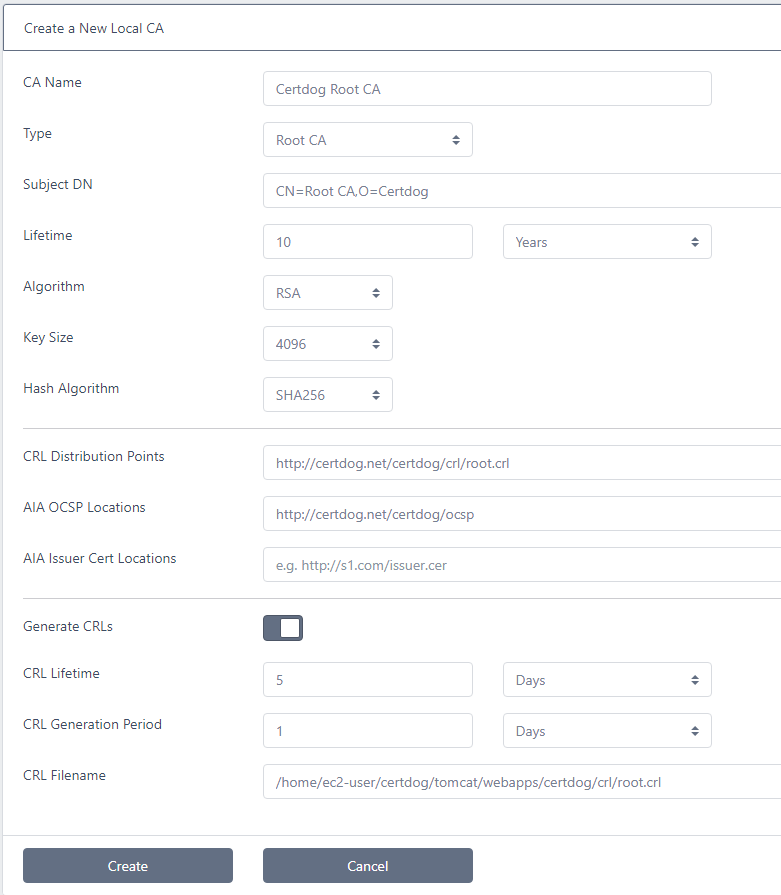
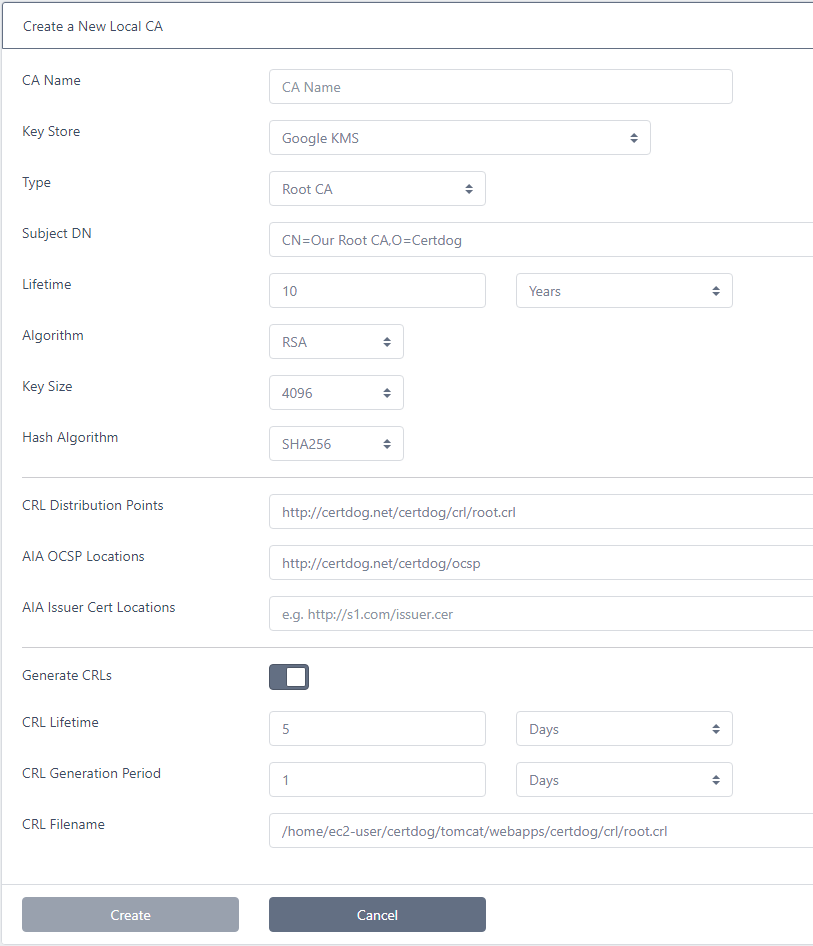
Added Key Stores Docs

diff --git a/certdog/keystores.md b/certdog/keystores.md
@@ -1,0 +1,241 @@
+---
+layout: default
+title: Key Stores
+parent: Certdog
+nav_order: 5
+---
+# Key Stores
+
+
+
+A Local CA makes use of a Key Store. This is where the CA keys will be generated and stored  
+
+A key store must be available before a Local CA can be created - as it relies on this for the key generation  
+
+Key Stores can be one of the following types:
+
+* Software
+  * The CA keys will be secured using software based encryption and stored in the database  
+* PKCS#11
+  * A HSM (Hardware Security Module) that supports the PKCS#11 interface may be used to generate and store the CA keys. HSMs supported include
+    * Thales Luna and DPoD (Data Protection on Demand)
+    * nCipher
+    * Utimaco
+    * AWS Cloud HSM
+* Azure Key Vault
+  * A Key Vault in Azure can be used. Note: Certdog enforces HSM protection for keys and this is only supported on the Premium pricing tier
+* Google KMS
+  * A key ring in Google Cloud may be used for key storage. Again, certdog enforces HSM protection for these keys
+
+  
+
+## Obtaining Credentials and Settings
+
+Before you create a Key Store the required credentials must be obtained. These are dependant on what type of key store is being used
+<br><br>
+### Software
+
+Only a password is required for software key stores. This password is used to protect any keys generated by the CA. The password itself will also be encrypted before being stored
+<br><br>
+### PKCS#11
+
+The PKCS#11 interface makes use of a local library which interfaces to the HSM  
+
+This library is provided by the HSM vendor and the setup of this (and any other required configuration) is vendor specific  
+
+Note that this setup must be performed on the certdog server itself - not on the client accessing the certdog server
+
+Once setup the following pieces of information are required:
+
+* The PKCS#11 Library
+
+  * This is the library providing the PKCS#11 interface. The full path is required. A typical example for an nCipher HSM's library is:
+
+    ``C:\Program Files (x86)\nCipher\nfast\toolkits\pkcs11\cknfast-64.dll``
+
+    ``/opt/nfast/toolkits/pkcs11/64/libcknfast.so``
+
+* The slot
+
+  * A PKCS#11 device can host many slots which may refer to partitions (on Luna HSMs) or cardsets (on nCipher HSMs). Each slot may use a different password. This will all be configured during the HSM setup so you just need to be sure your password matches with the slot you will reference
+
+* Password
+
+  * This is the password used to authenticate to the HSM. It may be an operator cardset passphrase (in the case of nCipher) or a partition passphrase (in the case of Luna) or a combination of username and password as required for the AWS Cloud HSM (which requires the password in this format: ``username:password``)
+
+* Use Module Protection
+
+  * Some HSMs allow access without requiring a password. Access to the HSM should then be secured using other mechanisms (e.g. network layer security)
+<br><br>
+### Google KMS
+
+To use a key ring in Google Cloud the following are required. These can be obtained/configured from your Google Cloud account:
+
+* **Project**
+  * This is the project ID as displayed in the Home dashboard:
+
+<img src=".\images\google_project.png" alt="image-20210717085402338" style="zoom:67%;" />
+
+
+
+* **Key Ring Location**
+
+  You must have created a key ring from the **Security** | **Key management** section in Google Cloud
+
+  When created the location will be displayed (e.g. *us-west4*, *europe-west2* etc.)
+
+  Note that it is recommended that a dedicated key ring be assigned to Certdog as it will be creating and deleting keys within this key ring
+
+
+* **Key Ring Name**
+
+  The name you assigned to the key ring e.g. certdog
+
+* **Key Ring Credentials**
+
+  This is the JSON credential string associated with a service account that has permissions to access the key ring
+
+  A service account can be created from the **IAM & Admin** | **Service Accounts** section. It is recommended that a dedicated service account is created for certdog
+
+  The account must have the following roles:
+
+  * Cloud KMS Admin
+  * Cloud KMS CryptoKey Signer
+  * Cloud KMS CryptoKey Public Key Viewer
+
+  To obtain the JSON credential, select the **Keys** section for the service account and select **Add Key**, choosing **JSON** as the Key type. Download the produced JSON file - it is the contents of this file that must be pasted into the **Key Ring Credentials** section
+  <br><br>
+### Azure Key Vault
+
+To use a Key Vault in Azure the following are required. These can be obtained/configured from the Azure Portal:
+
+* **Key Vault Name**
+
+  This is the Vault URL as displayed on the vault's overview page, it is not the display name. I.e. in the example below the Key Vault Name required to be entered is: https://certdog.vault.azure.net
+
+<img src=".\images\keyvault_name.png" alt="image-20210717092340973" style="zoom:80%;" />
+
+* **Key Vault Client ID**
+
+  This is also referred to as the **appId**. See the steps below on how to obtain this value
+
+* **Key Vault Tenant ID**
+
+  This is also referred to as the **Directory ID** (see the green box in the screen shot above)
+
+* **Password**
+
+  Also referred to as the **client secret**
+
+
+
+To obtain these values, we need to register an application that will then be authorised to use the key vault  
+
+To do this, perform the following steps:
+
+1. If not done so already, create a **Key Vault** in the *Azure Portal*
+2. From the *Portal*, navigate to **Azure Active Directory** and select **App Registrations** from the left hand menu 
+3. From the top menu click **New registration** 
+   1. Provide a **name** for the application (e.g. certdog)
+   2. Select the *supported account types*
+   3. For the *Redirect URI (optional)* setting, choose **Web** and provide a **URL**. The URL does not need to be a real URL but must be formatted as a URL. For example, it could be: https://certdog.myorg.com 
+4. Next, open **Azure Cloud Shell** either by clicking the shell icon from the *Portal*:
+
+![image-20210717092702011](C:\Users\darre\Documents\_mystuff\development\_Krestfield Products\docs\certdog\images\azure_shell.png)
+
+		or by navigating to https://shell.azure.com/
+
+5. At the prompt type the following to create a service principal called certdog (though you can name this whatever you want):
+
+```json
+az ad sp create-for-rbac -n certdog --skip-assignment
+The output includes credentials that you must protect. Be sure that you do not include these credentials in your code or check the credentials intoyour source control. For more information, see https://aka.ms/azadsp-cli
+'name' property in the output is deprecated and will be removed in the future. Use 'appId' instead. 
+{
+	"appId": "fd94f971-ebd9-4a32-a56e-97427655429e", 
+	"displayName": "certdog",
+    "name" : "fd94f971-ebd9-4a32-a56e-97427655429e",
+	"password": "nScc7-6T.gOI7.ugHawFRRoUbwUA_agrC-",
+    "tenant": "36524c35-390b-4343-390b-36524c35707c"
+}
+```
+
+6. Note the following items: 
+   * appId
+   
+     This is your **Key Vault Client ID**
+   
+   * password
+   
+     This is the **password** 
+   
+   * tenant
+   
+     This should be the same value as displayed for Directory ID on the key vaults overview page and is the **Key Vault Tenant ID**
+   
+     
+
+7. We must set the permissions on the key vault for this application. To do this, type the following at the shell:
+
+```shell
+export AZURE_CLIENT_ID=[value for appId returned above] 
+export AZURE_CLIENT_SECRET=[value returned for password above]
+export AZURE_TENANT_ID=[value returned for tenant above]
+
+az keyvault set-policy --name [Key Vault Name] --spn $AZURE_CLIENT_ID --key-permissions delete get list create sign verify encrypt decrypt wrapKey unwrapKey –-certificate-permissions get list
+```
+
+The [Key Vault Name] in this instance is not the full URI, but just the name. For example, if you had created a key vault called certdog. Its URI would be: https://certdog.vault.azure.net/ but the name required here would just be: *certdog*
+
+For example:
+
+````shell
+export AZURE_CLIENT_ID="fd94f971-ebd9-4a32-a56e-97427655429e"
+export AZURE_CLIENT_SECRET="nScc7-6T.gOI7.ugHawFRRoUbwUA_agrC-"
+export AZURE_TENANT_ID="36524c35-390b-4343-390b-36524c35707c"
+
+az keyvault set-policy --name certdog --spn $AZURE_CLIENT_ID --key-permissions delete get list create sign verify encrypt decrypt wrapKey unwrapKey --certificate-permissions get list
+````
+
+
+
+You would now have created an account that can be configured in certdog to access your key vault. 
+
+<br>
+
+## Creating a Key Store
+
+
+
+1. From the certdog application, login as an **Administrator**
+2. From the menu select, **Local CA** | **Key Stores**
+3. Click **Add New Key Store**
+4. Enter a **Name** for the Key Store. This can be anything you like and is used to reference it later  
+5. Select the **Key Store Type** from the drop down
+    <br><br>
+### Software
+<img src=".\images\keystores_software.png" alt="image-20210717115311825" style="zoom: 80%;" />
+
+Enter a **password**, retype and click **Create**  
+
+Note that this password will be used to protect any keys created by Local CAs that use this key store. Ensure it meets your password security requirements  
+<br><br>
+### PKCS#11
+
+<img src=".\images\keystores_pkcs11.png" alt="image-20210717115539161" style="zoom: 80%;" />
+
+Enter the **Password**, **PKCS#11 Library**, **HSM Model** and the **Slot** as per the details outlined above and click **Create**
+<br><br>
+
+### Google KMS
+
+<img src=".\images\keystores_google.png" alt="image-20210717115848253" style="zoom:80%;" />
+
+Enter the **Project**, **Key Ring Location**, **Key Ring Name** as obtained above. For the **Key Ring Credentials**, open the JSON file that was downloaded and copy its contents into the box. Click **Create**
+<br><br>
+
+### Azure Key Vault
+
+<img src=".\images\keystores_keyvault.png" alt="image-20210717120236416" style="zoom:80%;" />
+
+Enter the **Password**, **Key Vault Name**, **Key Vault Client ID** and **Key Vault Tenant ID** as obtained from above. Click **Create**

diff --git a/certdog/create_local_certificate_issuer.md b/certdog/create_local_certificate_issuer.md
@@ -17,28 +17,21 @@ A Certificate Issuer combines a CA (Certificate Authority) and Certificate Profi
 ### 1. Create a Local CA Configuration  
    Select **Local CA** > **Configuration** from the menu and click **Add New CA**
 
-<img src=".\images\new-local-ca.png" alt="image-20210620112307746" style="zoom: 67%;" />
+<img src=".\images\new-local-ca.png" alt="image-20210717121009648" style="zoom:80%;" />
 
 Complete the following details:  
 
 <u>Main Certificate Authority Details</u>  
 
 * **CA Name**: Enter a name for this CA
-
+* **Key Store**: Choose from the drop down they Key Store that will be used to generate and store this CA's keys
 * **Type**: You can create a Root CA (self-signed) or an Intermediate CA (if a Root CA has been configured). A complete hierarchy of CAs can be configured with no limit to the chain length  
-
 * **Issuer**: If you select Intermediate CA in the option above, a list of available parent CAs (issuers) will be displayed. Select the CA to be the parent/issuer CA
-
 * **Subject DN**: Enter the CA Distinguished Name
-
 * **Lifetime**: Specify the life of this CA. Note that if an Intermediate CA's lifetime is set to exceed that of the issuer, it will be automatically reduced to be equal to the issuers. I.e. you cannot issue an Intermediate CA with a longer life than its parent
-
 * **Algorithm**: Select RSA or ECDSA as the algorithm used to generate the CA keys
-
 * **Key Size**: If RSA is selected, set the RSA key size
-
 * **Curve**: If ECDSA is selected, set the name for the elliptic curve
-
 * **Hash Algorithm**: Set the CA's hash algorithm
 
 Note that once the CA is configured the above options are fixed and cannot then be changed. You may delete and re-issue a CA but you cannot change its lifetime, algorithm etc.   
